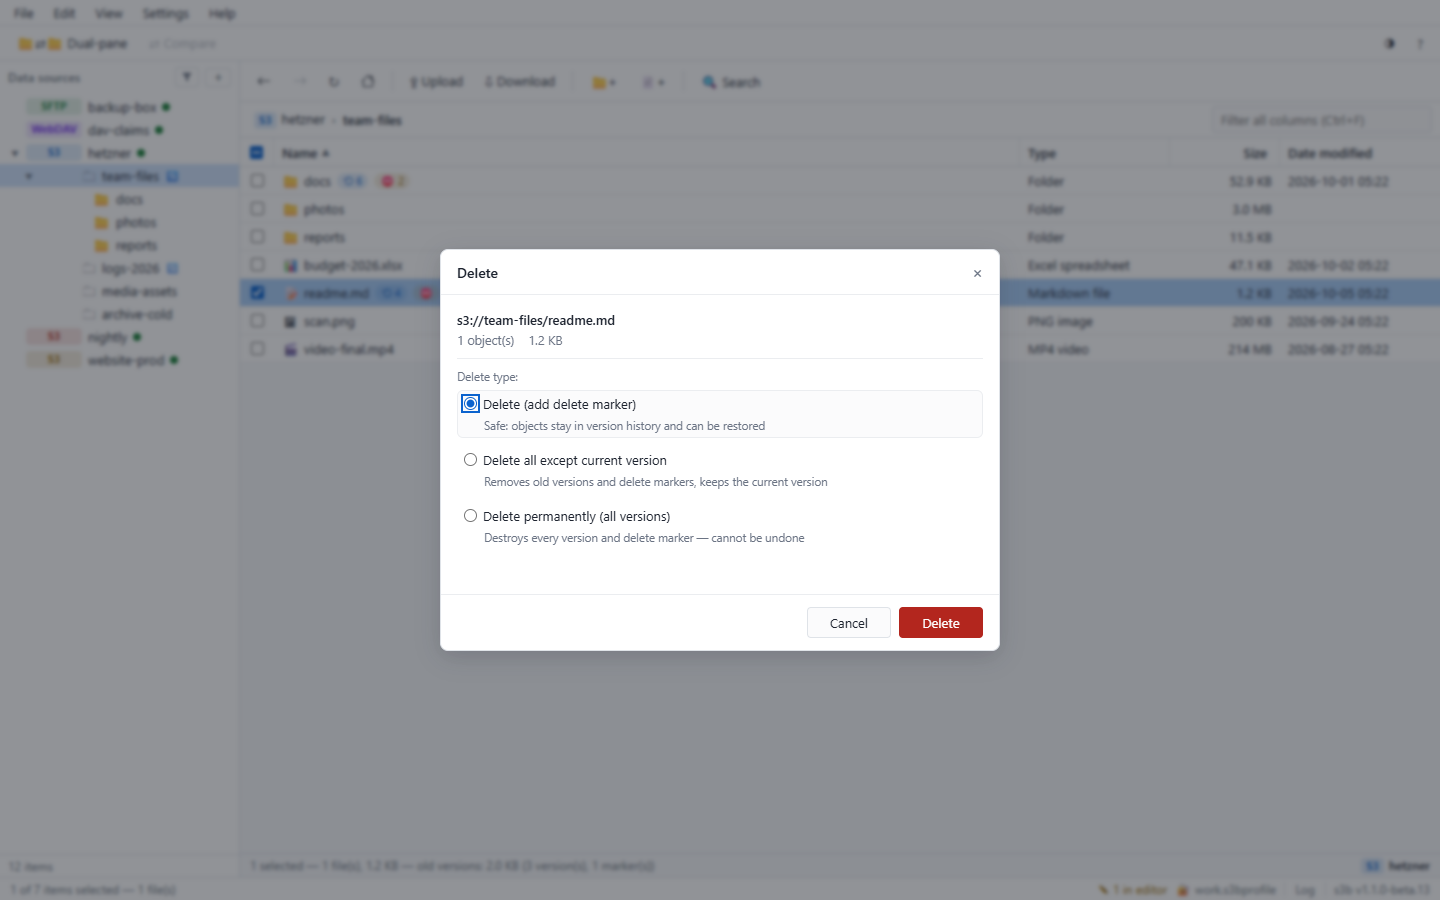
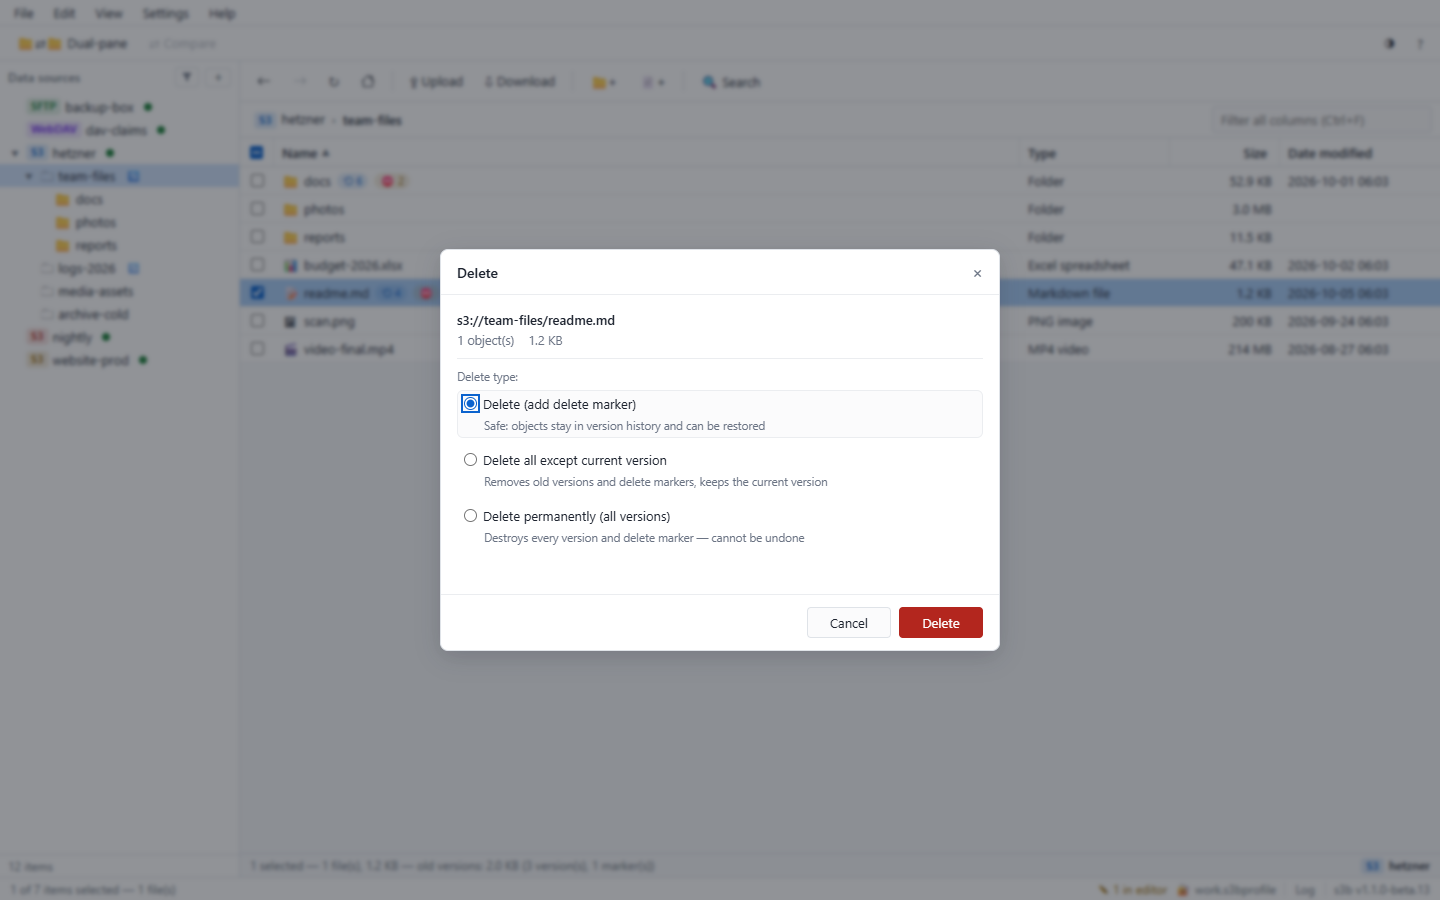
the data sources spacing redo: the chip-stretch design is reverted wholesale and only the empty spaces are removed — the shared measured type column itself was the dead air all along (fitTypeColumn seated --ticon-w on the widest chip the list carries, so every S3 badge right-hugged the stop and park

Changed region(s): [[0.0, 0.1556, 0.125, 0.4044], [0.0938, 0.0933, 0.125, 0.1244], [0.0312, 0.0933, 0.0625, 0.1244]]

diff --git a/frontend/css/app.css b/frontend/css/app.css
@@ -324,23 +324,14 @@ svg.flip { transform: scaleX(-1); }
 .tnode.sel { background: var(--sel); }
 .tnode.drop-target { background: var(--accent-soft); outline: 1px dashed var(--accent); }
 .tnode .twist { width: 14px; text-align: center; color: var(--text-dim); flex: none; font-size: 9px; }
-/* the type column: the source chip (S3, SFTP, WebDAVS, …) needs more
-   room than a glyph, and one stop keeps every row's badge on the same
-   edges — but the stop is measured, not fixed: tree.js seats --ticon-w
-   on the widest chip the list actually carries (the 2px cushion is the
-   column's padding-right), so an S3-only sidebar wears no
-   WebDAV-sized hole while names still share one stop. The stop's right
-   edge is the one runway every row parks against: chips FILL the
-   measured column with their text centered — a mixed list seats the
-   stop on its widest chip (WebDAV) and no shorter badge (S3, SFTP)
-   parks dead air at the column's left edge, the badge's own tinted
-   body owns the width — and bucket and folder glyphs hug the same
-   right edge with the same cushion, so a glyph never floats mid-column
-   in a WebDAV-wide dead space: the air left of a glyph reads as
-   indentation, the runway to its name stays the chip's 6px */
-.tnode .ticon { flex: none; width: var(--ticon-w, 26px); display: flex; align-items: center; justify-content: flex-end; padding-right: 2px; }
-.tnode[data-tkind="source"] .ticon { white-space: nowrap; }
-.tnode[data-tkind="source"] .ticon .src-ic { flex: 1 1 auto; display: flex; align-items: center; justify-content: center; }
+/* the type slot is content-sized, not a shared column: each row parks
+   its chip or glyph flush after the expander and the name follows on
+   the row's own 4px gap, so no row carries dead air — a mixed list
+   (S3 beside WebDAVS) never seats a WebDAV-wide stretch of nothing
+   beside a short badge and no bucket glyph floats mid-column; every
+   indicator keeps its natural width and each name starts right after
+   its own indicator */
+.tnode .ticon { flex: none; display: flex; align-items: center; }
 .tnode .tlabel { overflow: hidden; text-overflow: ellipsis; }
 
 /* ================= Grid ================= */
@@ -1255,12 +1246,9 @@ kbd {
 .ver-pick { padding: 2px 8px; font-size: 11px; }
 .ver-pick.on { background: var(--accent-soft); color: var(--accent); border-color: var(--accent); }
 
-/* Bucket guard icons in the tree + vs-current delta (M10.4) — the
-   badges ride the row's own 4px gap (a margin-left here would stack
-   on it and park the versioning/lock pair 13px of visual air apart);
-   the 2px horizontal padding is the hover chip's cushion */
+/* Bucket guard icons in the tree + vs-current delta (M10.4) */
 .tguard {
-  font-size: 11px; cursor: pointer;
+  margin-left: 5px; font-size: 11px; cursor: pointer;
   color: var(--accent); user-select: none; padding: 0 2px;
 }
 .tguard.dim { color: var(--text-dim); opacity: .7; }
@@ -1528,7 +1516,7 @@ kbd {
 /* Source status balls in the tree (ok / error / busy) */
 .sball {
   display: inline-block; width: 8px; height: 8px; border-radius: 50%;
-  margin-left: 2px; flex: none; vertical-align: middle;
+  margin-left: 6px; flex: none; vertical-align: middle;
   background: var(--text-dim); opacity: .45;
 }
 .sball.ok { background: var(--ok); opacity: 1; }

diff --git a/frontend/js/tree.js b/frontend/js/tree.js
@@ -524,27 +524,7 @@ export class Tree {
       for (const r of roots) this.container.appendChild(this.renderNode(r));
       this.visibleCount = this.container.querySelectorAll('.tnode').length;
     }
-    this.fitTypeColumn();
     this.onRender?.();
-  }
-
-  // fitTypeColumn seats the shared type column on the widest chip the
-  // rendered sources actually wear: a fixed stop sized for the longest
-  // label (WebDAVS) parks a hole left of every S3/SFTP chip. Measured
-  // instead, each list seats its own widest badge — and the CSS parks
-  // every row against the stop's right edge: chips fill the column
-  // with their text centered (no shorter badge parks dead air at the
-  // left edge) and the folder/bucket glyphs hug the same edge instead
-  // of floating mid-column in a WebDAV-wide dead space; names keep one
-  // stop and every glyph keeps the chip's 6px air to the name (the +2
-  // is the column's padding-right cushion).
-  fitTypeColumn() {
-    let w = 0;
-    for (const c of this.container.querySelectorAll('.ticon .src-ic')) {
-      const cw = c.getBoundingClientRect().width;
-      if (cw > w) w = cw;
-    }
-    this.container.style.setProperty('--ticon-w', w ? `${Math.ceil(w) + 2}px` : '');
   }
 
   // guardIcons builds the versioning / object-lock indicators shown after a

diff --git a/docs/VERIFICATION.md b/docs/VERIFICATION.md
@@ -147,7 +147,7 @@ it, the sweep row is named). **OS** is the platform the verification ran on.
 | **Solo Search window: a whole-source scope reads the typed name alone** | **shim world (SFTP-shaped)** | the pane's find button at the source root: exactly one option, the Sources input disabled, the label reading SFTP · backup-box — no trailing slash where contents would sit | — | ✅ (battery: pane-search-names; full gui-visual 1045/1045) | Win 11 x64 |
 | **Toast stack clear of the bars, dismissible on the spot** | **shim world** | an error toast parks above the secondary pane's info bar (geometric: the stack's bottom sits at or above the bar's top), carries an aria-labeled ✕ beside its message, and the ✕ dismisses it instantly — long before its 7 s error timer | — | ✅ (battery: toast-popup; full gui-visual 1045/1045) | Win 11 x64 |
 | **Tree guard icons hover as a tinted chip, never an underline** | **shim world (S3-shaped)** | hovering a bucket's versioning/lock glyph in the sidebar: computed style shows a tinted background, a 4px radius and text-decoration none — an underline would strike through the glyph's feet | — | ✅ (battery: objects-view guard-hover leg; full gui-visual 1045/1045) | Win 11 x64 |
-| **Data sources tree rides one spacing rhythm — no dead air anywhere** | **shim world (mixed list: S3 + SFTP + WebDAV)** | three geometric invariants on the sidebar tree: every type chip FILLS the measured column (left edge at the column's left, right edge at its 2px cushion — a WebDAV badge seats the column without parking a WebDAV-wide hole beside every S3/SFTP chip, while an S3-only list still measures its own narrower stop); every bucket/folder glyph hugs the column's right edge with the same cushion instead of floating mid-column (its gap to the name is the chip's 6px runway); and the badge cluster after each name — status ball then guard chips, the bucket-scoped source rows carry theirs after the ball — parks every adjacent pair on the row's own gap rhythm (4px, the ball's 6px), where margin stacking used to leave the versioning/lock pair 9-10px apart | — | ✅ (battery: sources-in-tree fill + glyph-hug + badge-rhythm legs; full gui-visual 1051/1051) | Win 11 x64 |
+| **Data sources tree parks every indicator flush — no empty space anywhere** | **shim world (mixed list: S3 + SFTP + WebDAV)** | two geometric invariants on the sidebar tree: every type chip sits at its natural width flush after the expander — no shared column, so a mixed list parks no WebDAV-wide hole beside an S3/SFTP badge (the chip's box is the slot's box, all source rows share one left edge, and at least two distinct chip widths prove natural sizing) with the name tight on the row's own 4px gap; and every bucket/folder glyph parks flush at its natural size after the expander with its name tight on the same gap, where centered glyphs used to float mid-column in a WebDAV-wide dead space | — | ✅ (battery: sources-in-tree flush legs; full gui-visual 1049/1049) | Win 11 x64 |
 | **CLI plain-text output reads the GUI's unified formats** | **go unit tests** | sizes round like the GUI (one decimal under a hundred, whole units at or above — TestHumanSize pins 52.9 KB, 65.0 KB and 217 MB), the stat/versions/retention dates read the GUI's minute-precision local form where they printed seconds or RFC3339, and `source list` plus the connect test speak the `S3 · name` typed identity (TestSourceTypeLabel); machine JSON keeps RFC3339 | — | ✅ go test ./... (internal/cli) | Win 11 x64 |
 
 ### Transfers — the critical jobs

diff --git a/CHANGELOG.md b/CHANGELOG.md
@@ -8,25 +8,18 @@ follow [Semantic Versioning](https://semver.org/).
 
 ### Fixed
 
-- **The Data sources tree rides one spacing rhythm — no dead air
-  anywhere.** Three compounding spacing defects made the sidebar read
-  ragged. The type column is seated on the widest chip the list
-  actually carries, but chips hugged that stop's right edge — so a
-  mixed list parked a WebDAV-wide stretch of dead air to the left of
-  every S3/SFTP badge. Bucket and folder glyphs centered in the same
-  measured column, floating mid-dead-space with a gap to their names
-  that grew with the longest type chip. And the badges after the
-  names stacked their own margins on top of the row's flex gap, so
-  the versioning and object-lock markers sat more than twice as far
-  apart as everything else in the row. The column's right edge is now
-  the one runway every row parks against: chips fill the measured
-  stop with their text centered (the badge's own tinted body owns the
-  width, and an S3-only sidebar still wears no WebDAV-sized hole
-  because the stop itself stays measured), bucket and folder glyphs
-  hug the runway so the air to their left reads as indentation, and
-  guard chips and status balls ride the row's own 4px gap (the
-  ball's 6px runway) instead of compounding margins. Pinned by three
-  new visual battery legs.
+- **The Data sources tree parks every indicator flush — no empty
+  space anywhere.** The type slot was a shared column seated on the
+  widest chip the list carries, so a mixed list parked a WebDAV-wide
+  stretch of empty space to the left of every S3/SFTP badge, and
+  bucket and folder glyphs centered in that same measured column,
+  floating mid-column with a gap to their names that grew with the
+  longest type chip. The shared column is gone: the slot is
+  content-sized now — every chip and glyph keeps exactly the width
+  its own text needs, parks flush after the expander, and the name
+  follows on the row's own 4px gap, so no row carries empty space
+  and each name starts right after its own indicator. Pinned by two
+  reworked visual battery legs.
 
 ## [1.2.0-beta.1] — 2026-10-05
 
